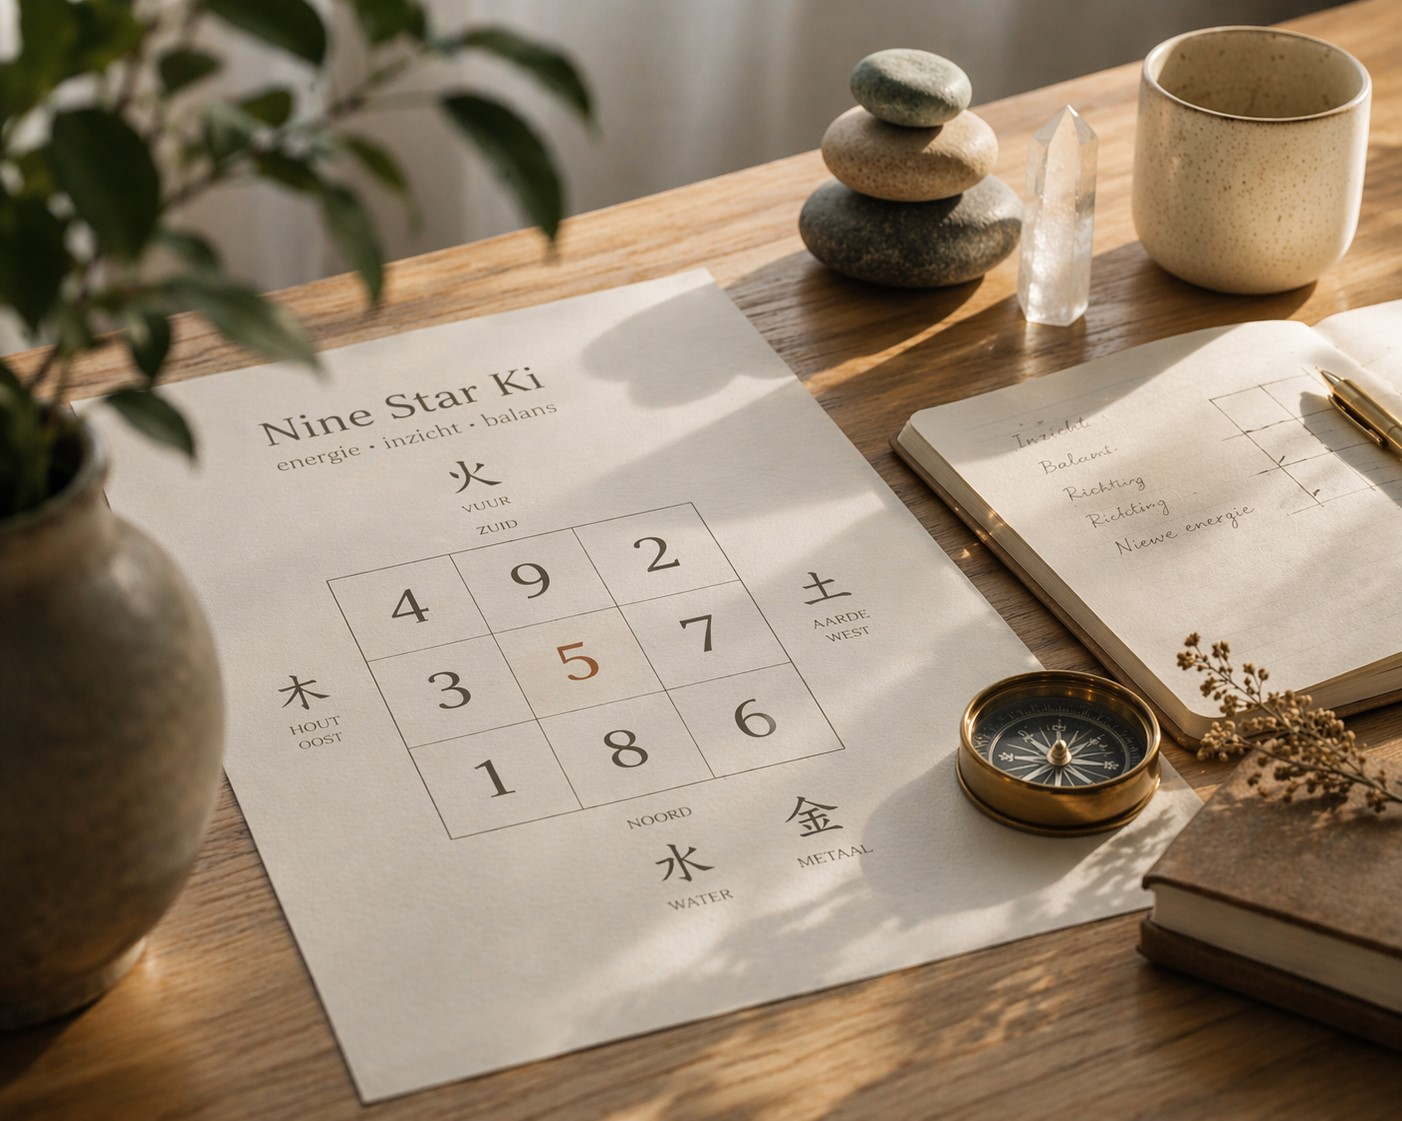
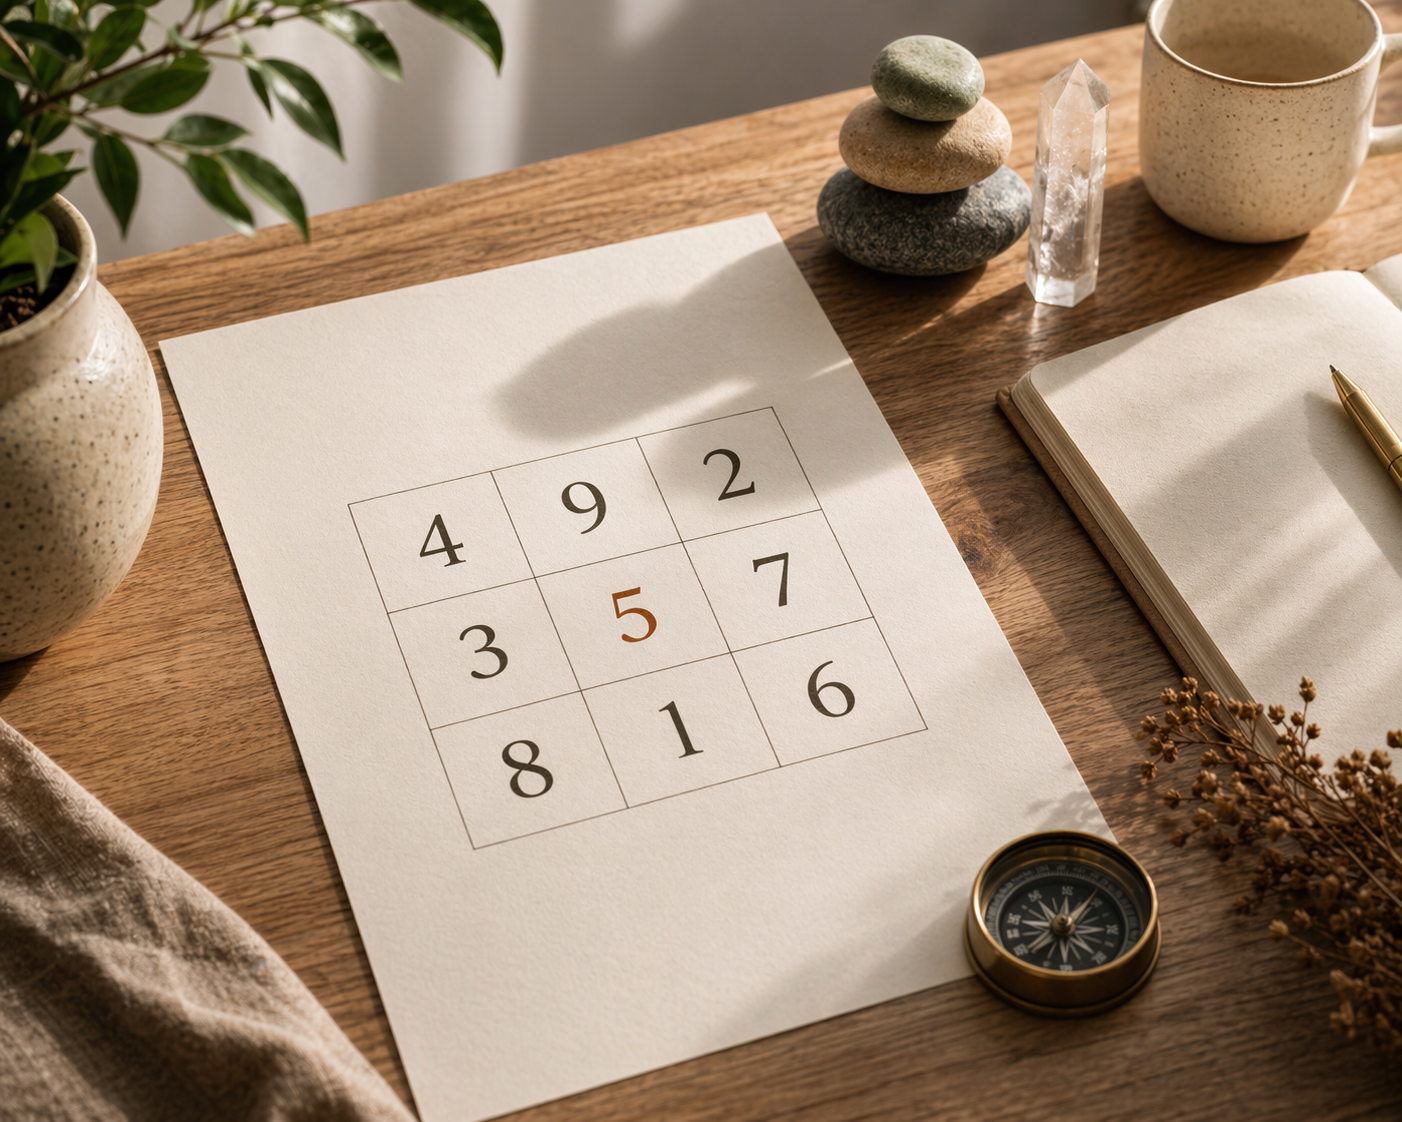
Update Nine Star Ki hero image

diff --git a/app/nine-star-ki/NineStarKiContent.tsx b/app/nine-star-ki/NineStarKiContent.tsx
@@ -40,23 +40,13 @@ export default function NineStarKiContent() {
           transition={{ duration: 0.5 }}
         >
           <div className="flex items-center justify-center">
-            <div className="relative w-full max-w-[320px]">
-              <Image
-                src="/nine-star-ki.jpg"
-                alt="Nine Star Ki energie en inzicht"
-                width={1200}
-                height={1200}
-                className="w-full rounded-[2rem] object-cover shadow-md ring-1 ring-[#eee7dd]"
-              />
-
-              <div className="pointer-events-none absolute left-[36.8%] top-[77.1%] flex h-[11%] w-[11%] -translate-x-1/2 -translate-y-1/2 items-center justify-center rounded-full bg-[rgba(248,246,241,0.96)] text-[clamp(1.8rem,4.5vw,2.7rem)] font-serif text-[#5c4735] shadow-[0_1px_4px_rgba(0,0,0,0.08)]">
-                8
-              </div>
-
-              <div className="pointer-events-none absolute left-[50.2%] top-[77.1%] flex h-[11%] w-[11%] -translate-x-1/2 -translate-y-1/2 items-center justify-center rounded-full bg-[rgba(248,246,241,0.96)] text-[clamp(1.8rem,4.5vw,2.7rem)] font-serif text-[#5c4735] shadow-[0_1px_4px_rgba(0,0,0,0.08)]">
-                1
-              </div>
-            </div>
+            <Image
+              src="/nine-star-ki.jpg"
+              alt="Nine Star Ki energie en inzicht"
+              width={1200}
+              height={1200}
+              className="w-full max-w-[320px] rounded-[2rem] object-cover shadow-md ring-1 ring-[#eee7dd]"
+            />
           </div>
 
           <div>
